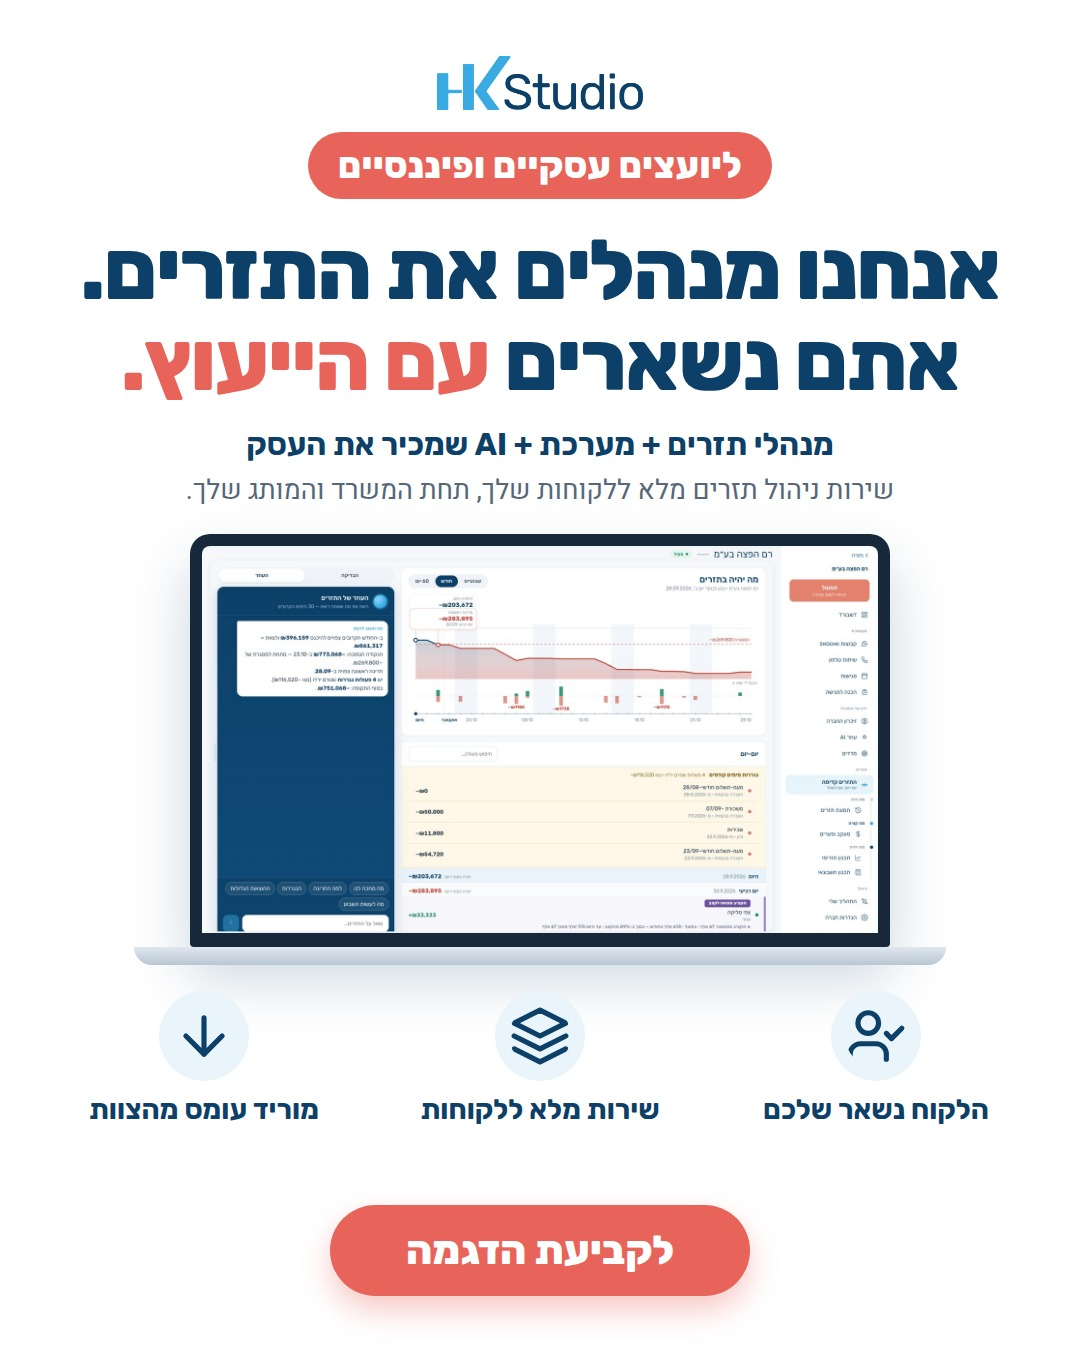
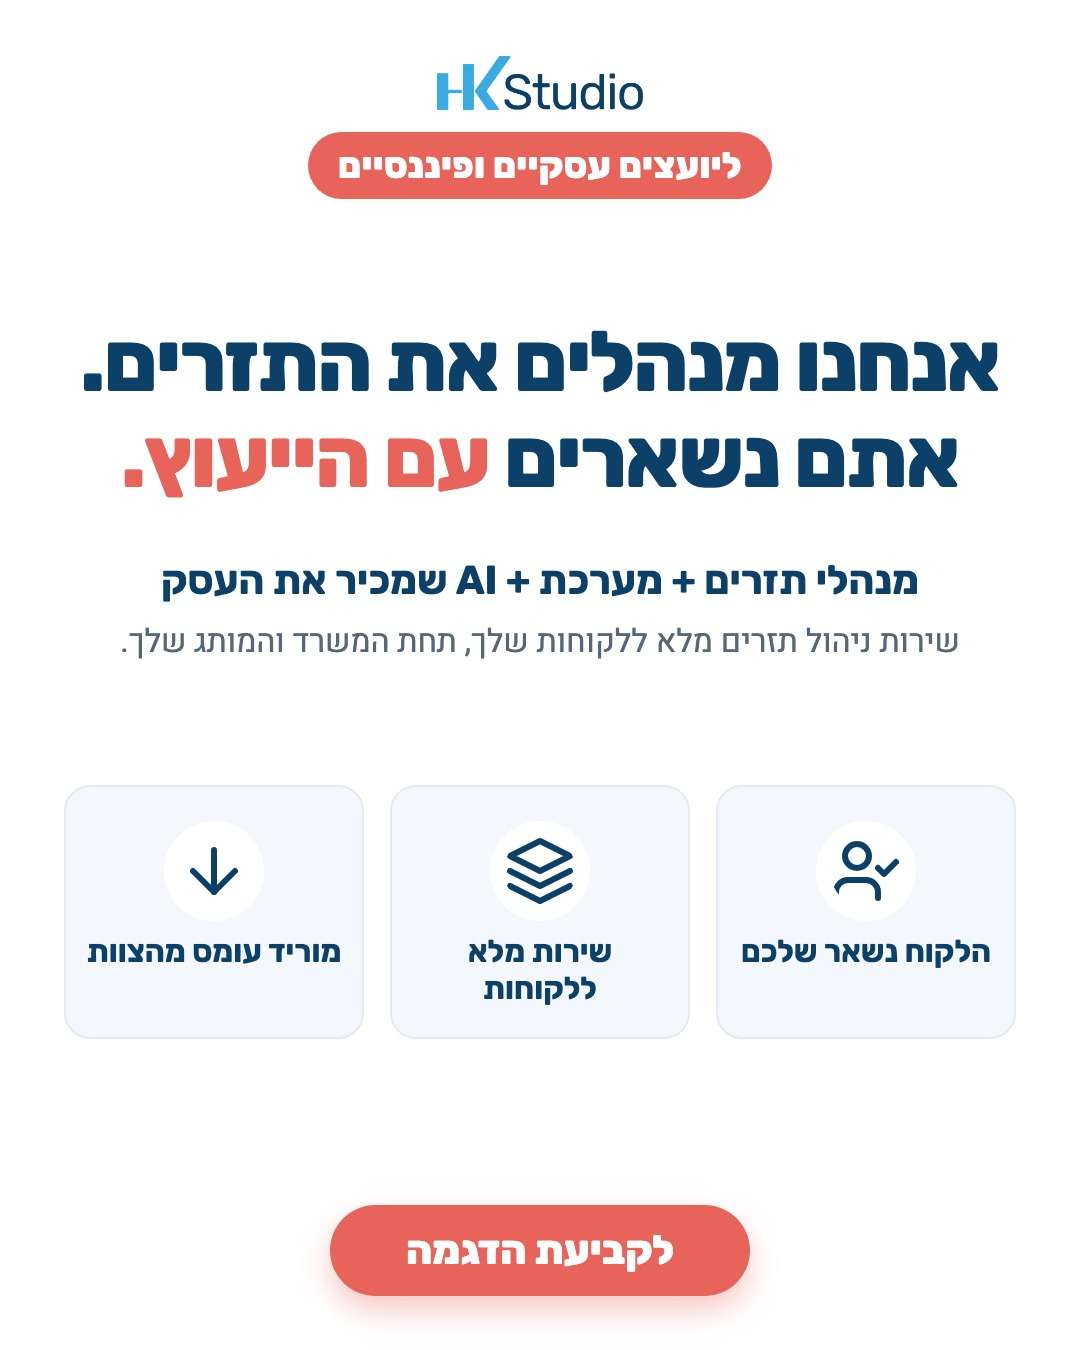
studio: מודעות בלי מערכת (nomock) — SA5 + SA4B, אייל 15.10; pending

diff --git a/template/post.html b/template/post.html
@@ -139,6 +139,18 @@
   .l-studio-mock .main:has(.aud) .sm-ben { margin-top: 26px; margin-bottom: 30px; }
   .l-studio-secret .aud { position: absolute; top: 40px; left: 48px; }
   .l-studio-secret .ss-logo { height: 50px; }
+  /* בלי מערכת במודעה (אייל 15.10): nomock — מסתיר את המוקאפים ומגדיל את המסר */
+  .l-studio-mock .main.nomock .sm-mock { display: none; }
+  .l-studio-mock .main.nomock .title span { display: block; }
+  .l-studio-mock .main.nomock .title { font-size: 84px; margin-top: 90px; line-height: 1.14; }
+  .l-studio-mock .main.nomock .sm-sub { font-size: 40px; margin-top: 50px; }
+  .l-studio-mock .main.nomock .sm-line { font-size: 32px; margin-top: 14px; }
+  .l-studio-mock .main.nomock .sm-ben { margin-top: 120px; gap: 26px; }
+  .l-studio-mock .main.nomock .sm-ben div { width: 300px; padding: 34px 18px 30px; border-radius: 26px; background: #F4F8FC; border: 2px solid #E3EAF3; font-size: 31px; }
+  .l-studio-mock .main.nomock .sm-ben svg { width: 72px; height: 72px; background: #fff; }
+  .l-studio-secret .main.nomock .ss-lap, .l-studio-secret .main.nomock .ss-ph { display: none; }
+  .l-studio-secret .main.nomock .ss-sub { right: 64px; left: 64px; width: auto; top: 110px; text-align: center; font-size: 64px; line-height: 1.15; }
+  .l-studio-secret .main.nomock .ss-plus { right: 64px; left: 64px; width: auto; top: 320px; text-align: center; font-size: 36px; }
 </style>
 </head>
 <body>
@@ -165,7 +177,7 @@
   const svc = document.getElementById('svc');
   const logos = { hkmoney: 'assets/hkmoney-logo.png', hkpro: 'assets/hkpro-logo.png', studio: 'assets/studio-logo.png' };
   if (logos[P.logo]) svc.src = logos[P.logo]; else svc.remove();
-  const main = document.getElementById('main');
+  const main = document.getElementById('main'); if (P.nomock) main.classList.add('nomock');
   const h = P.title ? `<h1 class="title">${P.title}</h1>` : '';
   if (layout === 'chat') {
     main.innerHTML = h + '<div class="chat">' + (P.chat || []).map(m =>

diff --git a/scripts/render.py b/scripts/render.py
@@ -39,7 +39,7 @@ def safe_inline(text):
 
 
 def render(post, chrome):
-    data = {k: v for k, v in post.items() if k in ("layout", "kicker", "body", "logo", "photo", "chat", "steps", "left", "right", "url", "kicker_size")}
+    data = {k: v for k, v in post.items() if k in ("layout", "kicker", "body", "logo", "photo", "chat", "steps", "left", "right", "url", "kicker_size", "nomock")}
     if post.get("aud"):  # שורת קהל היעד בקריאייטיבים של הסטודיו — טקסט בלבד
         data["aud"] = html.escape(post["aud"], quote=False)
     data["title"] = safe_inline(post.get("title", ""))
